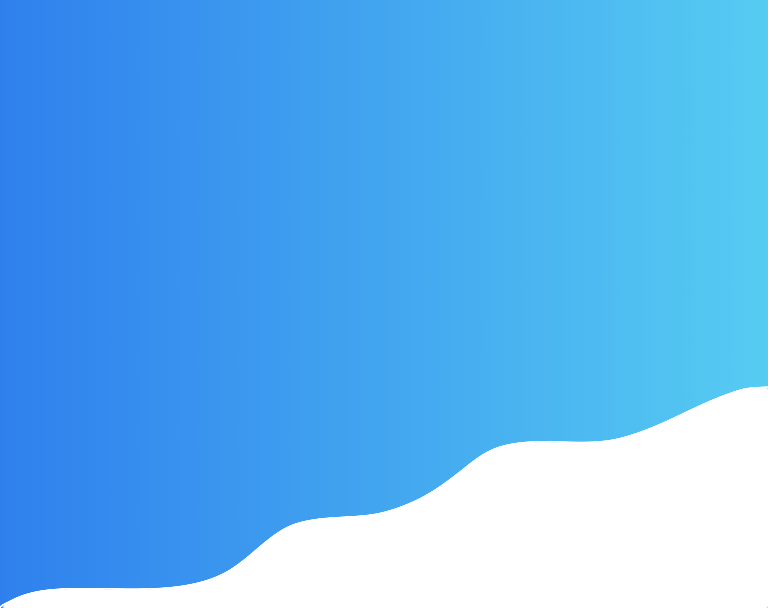
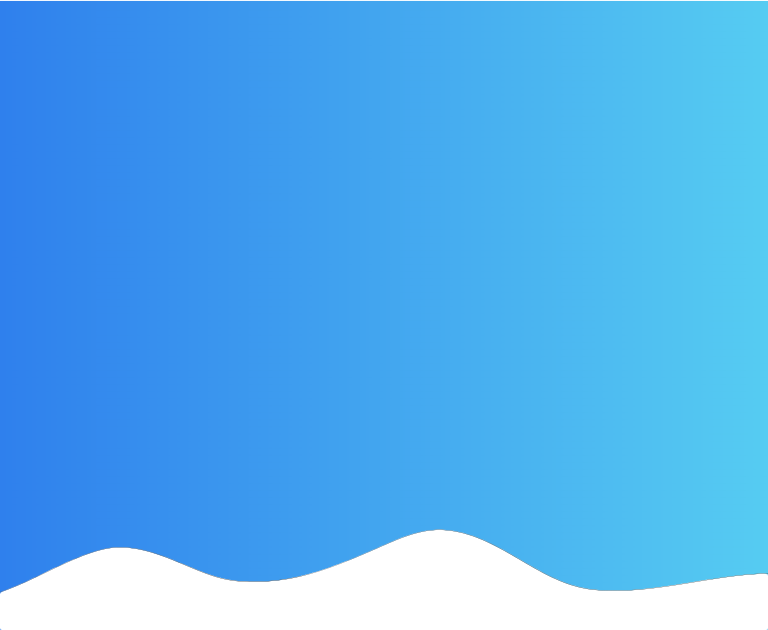
Update home page design

Changed region(s): [[0.0, 0.625, 1.0, 1.0]]

diff --git a/src/components/homeContactForm.js b/src/components/homeContactForm.js
@@ -1,0 +1,86 @@
+import React from 'react'
+
+import {
+  Field,
+  Label,
+  Control,
+  Input,
+  TextArea,
+  Checkbox,
+  Button,
+  Section,
+  Container,
+  Columns,
+  Column,
+  Title,
+  Subtitle,
+} from 'bloomer'
+
+const HomeContactForm = props => (
+  <Section>
+    <Container>
+      <Columns>
+        <Column>
+          <Title>Contacta amb nosaltres</Title>
+          <Subtitle>
+            Estem aquí per ajudar-te! Pots trobar-nos a través del formulari o
+            al correu electrònic{' '}
+            <a href="mailto:hola@okstudio.tech">hola@okstudio.tech</a>
+          </Subtitle>
+          <p className="privacyInfo">{props.privacyInfo}</p>
+        </Column>
+        <Column isSize="2/3">
+          <form
+            name="homePage"
+            method="POST"
+            netlify-honeypot="bot-field"
+            data-netlify="true"
+          >
+            <Field>
+              <Label>Nom i cognoms</Label>
+              <Control>
+                <Input type="text" name="name" placeholder="Jack Sparrow" />
+              </Control>
+            </Field>
+            <p className="is-hidden">
+              <label>
+                Don’t fill this out if you're human: <input name="bot-field" />
+              </label>
+            </p>
+            <Field>
+              <Label>Correu electrònic</Label>
+              <Control>
+                <Input type="email" name="email" placeholder="@" />
+              </Control>
+            </Field>
+            <Field>
+              <Label>Com et podem ajudar</Label>
+              <Control>
+                <TextArea
+                  name="message"
+                  placeholder={
+                    "Explica'ns tot allò que creguis necessari del teu projecte o problema"
+                  }
+                />
+              </Control>
+            </Field>
+            <Field>
+              <Control>
+                <Checkbox> Accepto la política de privacitat </Checkbox>
+              </Control>
+            </Field>
+            <Field isGrouped>
+              <Control>
+                <Button type="submit" isColor="primary">
+                  Enviar
+                </Button>
+              </Control>
+            </Field>
+          </form>
+        </Column>
+      </Columns>
+    </Container>
+  </Section>
+)
+
+export default HomeContactForm

diff --git a/src/pages/index.js b/src/pages/index.js
@@ -1,12 +1,73 @@
 import React from 'react'
 import LayoutHome from '../components/layoutHome'
-
+import { graphql } from 'gatsby'
 import HomeHero from '../components/homehero'
+import HomeFeaturedProject from '../components/homeFeaturedProject'
+import CTABanner from '../components/ctabanner'
+import HomeContactForm from '../components/homeContactForm'
 
-const IndexPage = () => (
+const IndexPage = ({ data }) => (
   <LayoutHome>
-    <HomeHero title="Posem la innovació tecnològica a l'abast de la teva empresa" />
+    <HomeHero
+      title={data.contentfulHomePage.heroTitle}
+      heroCTAText={data.contentfulHomePage.heroCTAText}
+      heroCTALink={data.contentfulHomePage.heroCTALink}
+    />
+    <HomeFeaturedProject
+      title={data.contentfulHomePage.featuredProjectTitle}
+      description={
+        data.contentfulHomePage.featuredProjectDescription.childMarkdownRemark
+          .rawMarkdownBody
+      }
+      link={data.contentfulHomePage.featuredProjectLink}
+      image={data.contentfulHomePage.featuredProjectImage.fluid}
+    />
+    <CTABanner
+      content={data.contentfulHomePage.homeBanner.content}
+      buttonLink={data.contentfulHomePage.homeBanner.btnLink}
+      buttonText={data.contentfulHomePage.homeBanner.btnText}
+    />
+    <HomeContactForm
+      privacyInfo={
+        data.contentfulContactPage.privacyInfo.childMarkdownRemark
+          .rawMarkdownBody
+      }
+    />
   </LayoutHome>
 )
 
 export default IndexPage
+
+export const query = graphql`
+  query HomePageQuery {
+    contentfulHomePage {
+      heroTitle
+      heroCTAText
+      heroCTALink
+      featuredProjectTitle
+      featuredProjectDescription {
+        childMarkdownRemark {
+          rawMarkdownBody
+        }
+      }
+      featuredProjectLink
+      featuredProjectImage {
+        fluid(maxWidth: 800, maxHeight: 1600) {
+          ...GatsbyContentfulFluid
+        }
+      }
+      homeBanner {
+        content
+        btnText
+        btnLink
+      }
+    }
+    contentfulContactPage {
+      privacyInfo {
+        childMarkdownRemark {
+          rawMarkdownBody
+        }
+      }
+    }
+  }
+`

diff --git a/src/components/homehero.js b/src/components/homehero.js
@@ -11,8 +11,10 @@ const HomeHero = props => {
       <Hero isColor="primary" isSize="large" className="home-hero">
         <HeroBody>
           <Container>
-            <Title isSize="2">{props.title}</Title>
-            <Subtitle isSize="3">
+            <Title isSize="2" className="homeHero-title">
+              {props.title}
+            </Title>
+            <Subtitle isSize="3" className="homeHero-subtitle">
               {/* <Typing
                 speed={100}
                 cursorClassName="home-hero-cursor"
@@ -35,16 +37,15 @@ const HomeHero = props => {
               <p className="invisible-space">.</p>
               <span className="invisible-space">.</span>
             </Subtitle>
-            <Button isColor="white" isOutlined>
-              <Link to="/serveis">
-                DESCOBREIX QUE PODEM FER PER TU
-                {/* <FAChevronRight
-                  height="1.25em"
-                  width="1.25em"
-                  className="my-icon-container"
-                /> */}
-              </Link>
-            </Button>
+            <Link to={props.heroCTALink}>
+              <Button
+                isColor="white"
+                isOutlined
+                className="homeHero-cta-button"
+              >
+                {props.heroCTAText}
+              </Button>
+            </Link>
           </Container>
         </HeroBody>
         <p className="has-text-centered add-bottom-margin has-text-primary">

diff --git a/src/components/homeFeaturedProject.js b/src/components/homeFeaturedProject.js
@@ -1,0 +1,38 @@
+import React from 'react'
+import { Link } from 'gatsby'
+import {
+  Section,
+  Container,
+  Columns,
+  Column,
+  Button,
+  Title,
+  Content,
+} from 'bloomer'
+import Img from 'gatsby-image'
+
+const HomeFeaturedProject = props => {
+  return (
+    <Section>
+      <Container>
+        <Columns isVCentered>
+          <Column isSize={6} isOffset={1}>
+            <Title>{props.title}</Title>
+            <Content>
+              <p>{props.description}</p>
+              <Link to={props.link}>Coneix el projecte ></Link>
+            </Content>
+            <Link to="/projectes">
+              <Button isColor="primary">Projectes</Button>
+            </Link>
+          </Column>
+          <Column isSize={{ desktop: 4, mobile: 12 }} isOffset={{ desktop: 1 }}>
+            <Img fluid={props.image} />
+          </Column>
+        </Columns>
+      </Container>
+    </Section>
+  )
+}
+
+export default HomeFeaturedProject

diff --git a/src/pages/contacte.js b/src/pages/contacte.js
@@ -97,14 +97,6 @@ const ContactePage = ({ data }) => (
                 data.contentfulContactPage.privacyInfo.childMarkdownRemark
                   .rawMarkdownBody
               }
-              {/* Responsable: Ok! Studio - Oriol Castro Arnau.{'\n'} Finalitat:
-                Gestionar l'enviament d'informació relacionada amb la petició.{
-                '\n'
-                }
-                Legitimació: Consentiment de la persona interessada. Podrà exercir
-                els seus drets d'accés, rectificació, limitació o suprimir les
-                dades a hola@okstudio.tech{'\n'}
-              Destinataris: Ok! Studio - Oriol Castro Arnau. */}
             </p>
           </Column>
         </Columns>

diff --git a/src/styles/main.sass b/src/styles/main.sass
@@ -102,11 +102,18 @@
   @include tablet-only
     background-image: url(../img/HomeHero_tablet.png)
     background-size: cover
+    .hero-body
+      padding-top: 14rem !important
+      padding-bottom: 14rem !important
   @include mobile
     background-image: url(../img/HomeHero_mobile.png)
     background-size: cover
-  .hero-body
-    padding-top: 14rem !important
+    .hero-body
+      padding-top: 5rem !important
+      padding-bottom: 5rem !important
+    .homeHero-cta-button
+      font-size: 0.9rem
+      width: 100%
   @media screen and (max-width: 1087px)
     padding-top: 58px
   h1

diff --git a/src/components/ctabanner.js b/src/components/ctabanner.js
@@ -21,6 +21,7 @@ const CTABanner = props => {
   )
   // eslint-disable-next-line
   CTABanner.propTypes = {
+    backgroundColor: propTypes.string,
     content: propTypes.string,
     buttonText: propTypes.string,
     buttonLink: propTypes.string,
